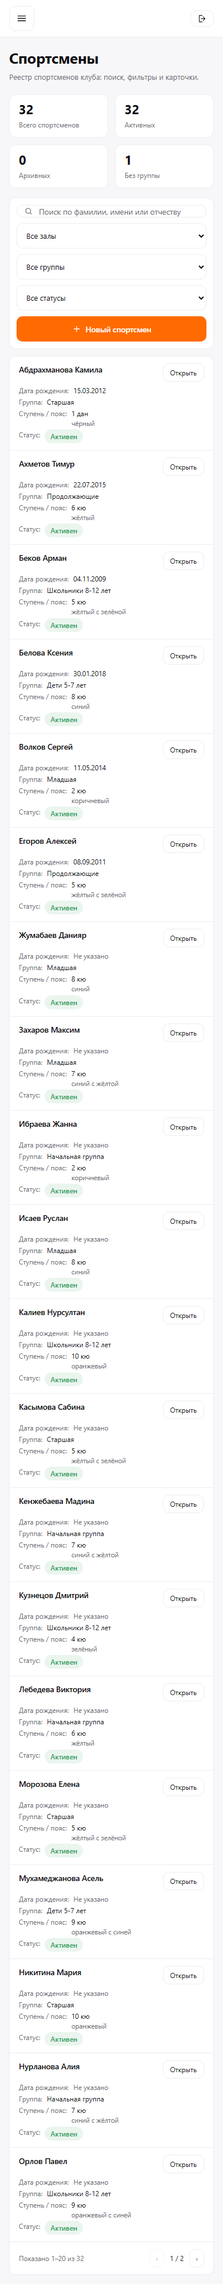
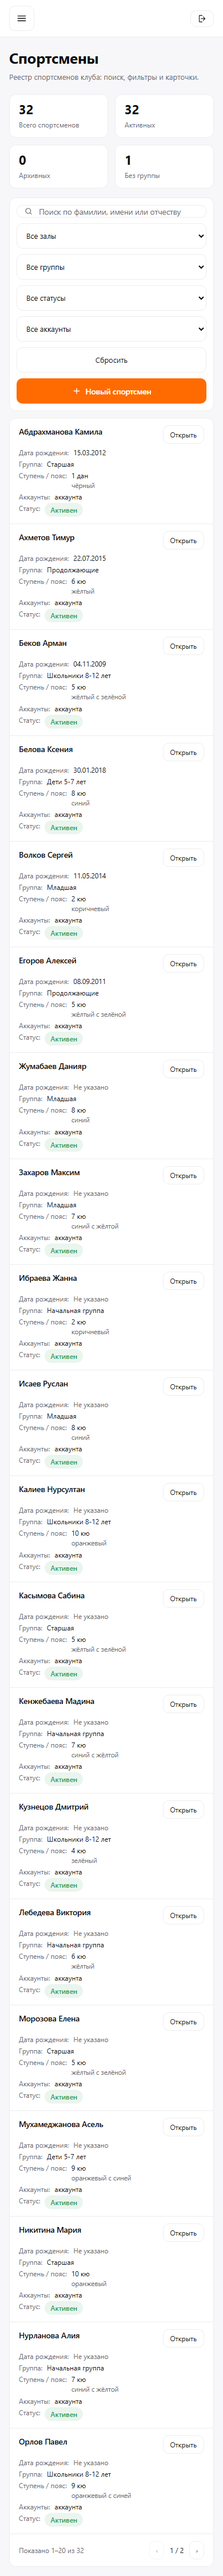
feat(api,admin): количество связанных аккаунтов и фильтр привязки (#133)

Changed region(s): [[0.0308, 0.0, 0.9231, 0.9972], [0.5538, 0.0312, 0.7077, 0.0935]]

diff --git a/apps/admin/src/app/athletes/athletes-board.tsx b/apps/admin/src/app/athletes/athletes-board.tsx
@@ -20,13 +20,15 @@ export interface AthleteRow {
   rankLabel: string | null;
   beltGrade: string;
   phone: string | null;
+  /** Действующие привязки аккаунтов; 0 — привязки нет. */
+  linkedAccountsCount: number;
 }
 
 interface BoardProps {
   data: { items: AthleteRow[]; total: number; page: number; limit: number };
   groups: { id: string; name: string; hallId: string | null }[];
   halls: { id: string; name: string }[];
-  params: { search: string; hallId: string; groupId: string; status: string };
+  params: { search: string; hallId: string; groupId: string; status: string; hasAccounts: string };
   sortBy: 'lastName' | 'birthDate' | 'status';
   sortOrder: 'asc' | 'desc';
 }
@@ -60,6 +62,7 @@ function buildHref(
     hallId: string;
     groupId: string;
     status: string;
+    hasAccounts: string;
     sortBy: string;
     sortOrder: string;
     page: number;
@@ -70,6 +73,7 @@ function buildHref(
     hallId: props.params.hallId,
     groupId: props.params.groupId,
     status: props.params.status,
+    hasAccounts: props.params.hasAccounts,
     sortBy: props.sortBy,
     sortOrder: props.sortOrder,
     page: 1,
@@ -80,6 +84,7 @@ function buildHref(
   if (next.hallId) query.set('hallId', next.hallId);
   if (next.groupId) query.set('groupId', next.groupId);
   if (next.status) query.set('status', next.status);
+  if (next.hasAccounts && next.hasAccounts !== 'all') query.set('hasAccounts', next.hasAccounts);
   query.set('sortBy', next.sortBy);
   query.set('sortOrder', next.sortOrder);
   if (next.page > 1) query.set('page', String(next.page));
@@ -108,7 +113,9 @@ export function AthletesBoard(props: BoardProps) {
   const visibleGroups = params.hallId
     ? groups.filter((group) => group.hallId === params.hallId)
     : groups;
-  const hasFilters = Boolean(params.search || params.hallId || params.groupId || params.status);
+  const hasFilters = Boolean(
+    params.search || params.hallId || params.groupId || params.status || params.hasAccounts,
+  );
 
   const columns: Column<AthleteRow>[] = [
     {
@@ -154,6 +161,20 @@ export function AthletesBoard(props: BoardProps) {
           <span className="block text-[11.5px] text-muted">{BELT[row.beltGrade] ?? row.beltGrade}</span>
         </>
       ),
+    },
+    {
+      key: 'accounts',
+      header: 'Аккаунты',
+      render: (row) => {
+        const count = row.linkedAccountsCount;
+        if (count === 0) {
+          return <span className="text-muted">Нет привязки</span>;
+        }
+        if (count === 1) {
+          return <span className="text-ink-soft">Привязан</span>;
+        }
+        return <span className="text-ink-soft">{count} аккаунта</span>;
+      },
     },
     {
       key: 'status',
@@ -252,6 +273,19 @@ export function AthletesBoard(props: BoardProps) {
             <option value="ACTIVE">Активные</option>
             <option value="FROZEN">Замороженные</option>
             <option value="ARCHIVED">Архивные</option>
+          </select>
+
+          <select
+            aria-label="Фильтр по привязке аккаунтов"
+            className="h-11 rounded-control border border-line bg-white px-3 text-[13px] sm:h-10 sm:min-w-[150px]"
+            value={params.hasAccounts}
+            onChange={(event) =>
+              router.push(buildHref(props, { hasAccounts: event.target.value, page: 1 }))
+            }
+          >
+            <option value="all">Все аккаунты</option>
+            <option value="linked">С привязкой</option>
+            <option value="unlinked">Без привязки</option>
           </select>
 
           {hasFilters ? (

diff --git a/apps/api/src/modules/athletes/athletes.repository.ts b/apps/api/src/modules/athletes/athletes.repository.ts
@@ -11,6 +11,8 @@ export interface AthleteListOptions {
   groupId?: string;
   /** Видимая зона тренера: `null` — ограничений нет. */
   athleteIds?: string[] | null;
+  /** Фильтр по действующим привязкам аккаунтов: `linked` — есть, `unlinked` — нет. */
+  hasAccounts?: 'linked' | 'unlinked';
   sortBy?: 'lastName' | 'birthDate' | 'status';
   sortOrder?: 'asc' | 'desc';
   skip?: number;
@@ -19,6 +21,8 @@ export interface AthleteListOptions {
 
 export interface AthleteRecord {
   id: string;
+  /** Действующие привязки аккаунтов; считает база подзапросом. */
+  _count: { userLinks: number };
   firstName: string;
   lastName: string;
   middleName: string | null;
@@ -165,6 +169,9 @@ const ATHLETE_SELECT = {
   hallId: true,
   createdAt: true,
   updatedAt: true,
+  // Привязки аккаунтов считает база подзапросом: список из 20 строк не делает
+  // 20 отдельных запросов (требование #133).
+  _count: { select: { userLinks: true } },
 } as const;
 
 /** Текущая группа, тренер и зал: только для карточки, не для списка. */
@@ -208,6 +215,13 @@ export class PrismaAthletesRepository extends AthletesRepository {
       archivedAt: null,
       ...(options.status ? { status: options.status } : {}),
       ...(options.athleteIds ? { id: { in: options.athleteIds } } : {}),
+      // Действующая привязка — запись UserAthlete. Непринятые приглашения
+      // (UserInvite) не считаются: это ещё не аккаунт спортсмена.
+      ...(options.hasAccounts === 'linked'
+        ? { userLinks: { some: {} } }
+        : options.hasAccounts === 'unlinked'
+          ? { userLinks: { none: {} } }
+          : {}),
       ...(membership ? { memberships: membership } : {}),
       ...(search
         ? {

diff --git a/apps/api/src/modules/athletes/athletes.service.spec.ts b/apps/api/src/modules/athletes/athletes.service.spec.ts
@@ -24,6 +24,7 @@ const athlete: AthleteRecord = {
   hallId: null,
   createdAt: new Date('2026-03-01T10:00:00.000Z'),
   updatedAt: new Date('2026-03-01T10:00:00.000Z'),
+  _count: { userLinks: 1 },
 };
 
 describe('AthletesService', () => {
@@ -143,6 +144,29 @@ describe('AthletesService', () => {
           sortOrder: 'desc',
         }),
       );
+    });
+
+    it('передаёт фильтр привязки аккаунтов и отдаёт их количество', async () => {
+      repository.list.mockResolvedValue([{ ...athlete, _count: { userLinks: 2 } }]);
+
+      const rows = await service.list('admin-1', { hasAccounts: 'linked' });
+
+      expect(repository.list).toHaveBeenCalledWith(
+        expect.objectContaining({ hasAccounts: 'linked' }),
+      );
+      expect(rows).toEqual([
+        expect.objectContaining({ id: athlete.id, linkedAccountsCount: 2 }),
+      ]);
+    });
+
+    it('без привязок отдаёт 0, а не пустое значение', async () => {
+      repository.list.mockResolvedValue([{ ...athlete, _count: { userLinks: 0 } }]);
+
+      const rows = await service.list('admin-1', { hasAccounts: 'unlinked' });
+
+      expect(rows).toEqual([
+        expect.objectContaining({ linkedAccountsCount: 0 }),
+      ]);
     });
 
     it('с page отдаёт страницу и общее число', async () => {

diff --git a/apps/api/src/modules/athletes/athletes.service.ts b/apps/api/src/modules/athletes/athletes.service.ts
@@ -67,6 +67,7 @@ export class AthletesService {
       search?: string;
       hallId?: string;
       groupId?: string;
+      hasAccounts?: 'linked' | 'unlinked';
       sortBy?: 'lastName' | 'birthDate' | 'status';
       sortOrder?: 'asc' | 'desc';
       page?: number;
@@ -81,6 +82,7 @@ export class AthletesService {
       search: options.search,
       hallId: options.hallId,
       groupId: options.groupId,
+      hasAccounts: options.hasAccounts,
       athleteIds: visible,
       sortBy: options.sortBy,
       sortOrder: options.sortOrder,
@@ -391,6 +393,8 @@ function toAthleteView(athlete: AthleteRecord, canViewContacts: boolean, groupNa
     birthDate: athlete.birthDate ? athlete.birthDate.toISOString().slice(0, 10) : null,
     gender: athlete.gender,
     groupName,
+    // Только число связей: email и профили родителей в реестр не попадают.
+    linkedAccountsCount: athlete._count?.userLinks ?? 0,
     status: athlete.status,
     // Ступень — источник истины (ADR-0012); пояс выводится из неё, если известен.
     // `null` означает, что миграция не смогла вывести ступень однозначно, и это

diff --git a/apps/admin/src/app/athletes/page.tsx b/apps/admin/src/app/athletes/page.tsx
@@ -64,6 +64,9 @@ export default async function AthletesPage({
     ...(params.hallId ? { hallId: params.hallId } : {}),
     ...(params.groupId ? { groupId: params.groupId } : {}),
     ...(params.status ? { status: params.status } : {}),
+    ...(params.hasAccounts && params.hasAccounts !== 'all'
+      ? { hasAccounts: params.hasAccounts }
+      : {}),
   });
 
   const [result, all, groups, halls] = await Promise.all([
@@ -113,6 +116,7 @@ export default async function AthletesPage({
           hallId: params.hallId ?? '',
           groupId: params.groupId ?? '',
           status: params.status ?? '',
+          hasAccounts: params.hasAccounts ?? 'all',
         }}
         sortBy={sortBy}
         sortOrder={sortOrder}

diff --git a/packages/contracts/src/athletes.ts b/packages/contracts/src/athletes.ts
@@ -26,6 +26,11 @@ export interface AthleteView {
    */
   groupName: string | null;
   /**
+   * Количество действующих привязок аккаунтов. `0` — привязки нет; непринятые
+   * приглашения не считаются. Email и профили родителей сюда не попадают.
+   */
+  linkedAccountsCount: number;
+  /**
    * Текущий пояс (K3). `null` — пояс не присвоен; это не «белый пояс», а
    * отсутствие данных.
    */

diff --git a/apps/api/src/modules/athletes/athletes.dto.ts b/apps/api/src/modules/athletes/athletes.dto.ts
@@ -182,6 +182,14 @@ export class ListAthletesQueryDto {
   @IsUUID()
   groupId?: string;
 
+  @ApiPropertyOptional({
+    enum: ['all', 'linked', 'unlinked'],
+    description: 'Фильтр по привязке аккаунтов: все, с привязкой, без привязки',
+  })
+  @IsOptional()
+  @IsIn(['all', 'linked', 'unlinked'])
+  hasAccounts?: 'all' | 'linked' | 'unlinked';
+
   @ApiPropertyOptional({ enum: ['lastName', 'birthDate', 'status'] })
   @IsOptional()
   @IsIn(['lastName', 'birthDate', 'status'])

diff --git a/apps/api/src/modules/athletes/athletes.controller.ts b/apps/api/src/modules/athletes/athletes.controller.ts
@@ -65,6 +65,7 @@ export class AthletesController {
       search: query.search,
       hallId: query.hallId,
       groupId: query.groupId,
+      hasAccounts: query.hasAccounts === 'all' ? undefined : query.hasAccounts,
       sortBy: query.sortBy,
       sortOrder: query.sortOrder,
       page: query.page,
